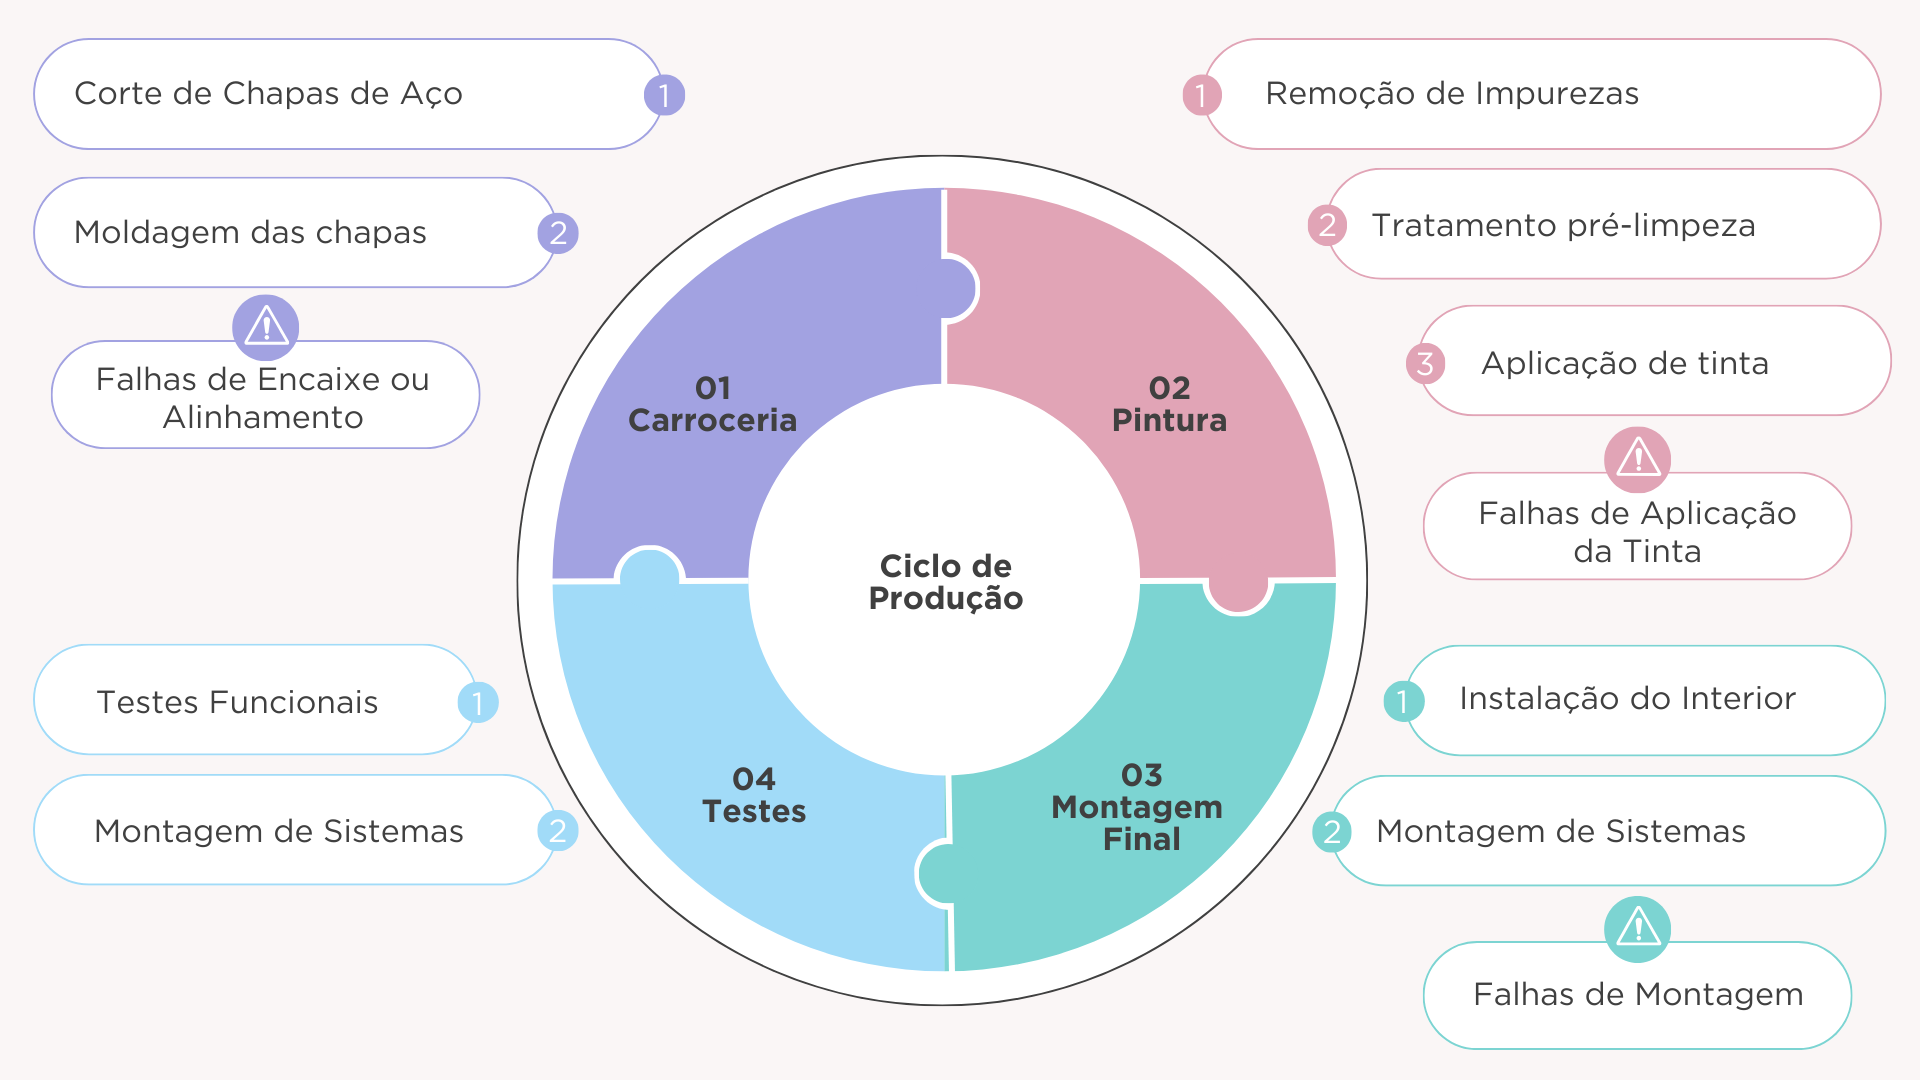
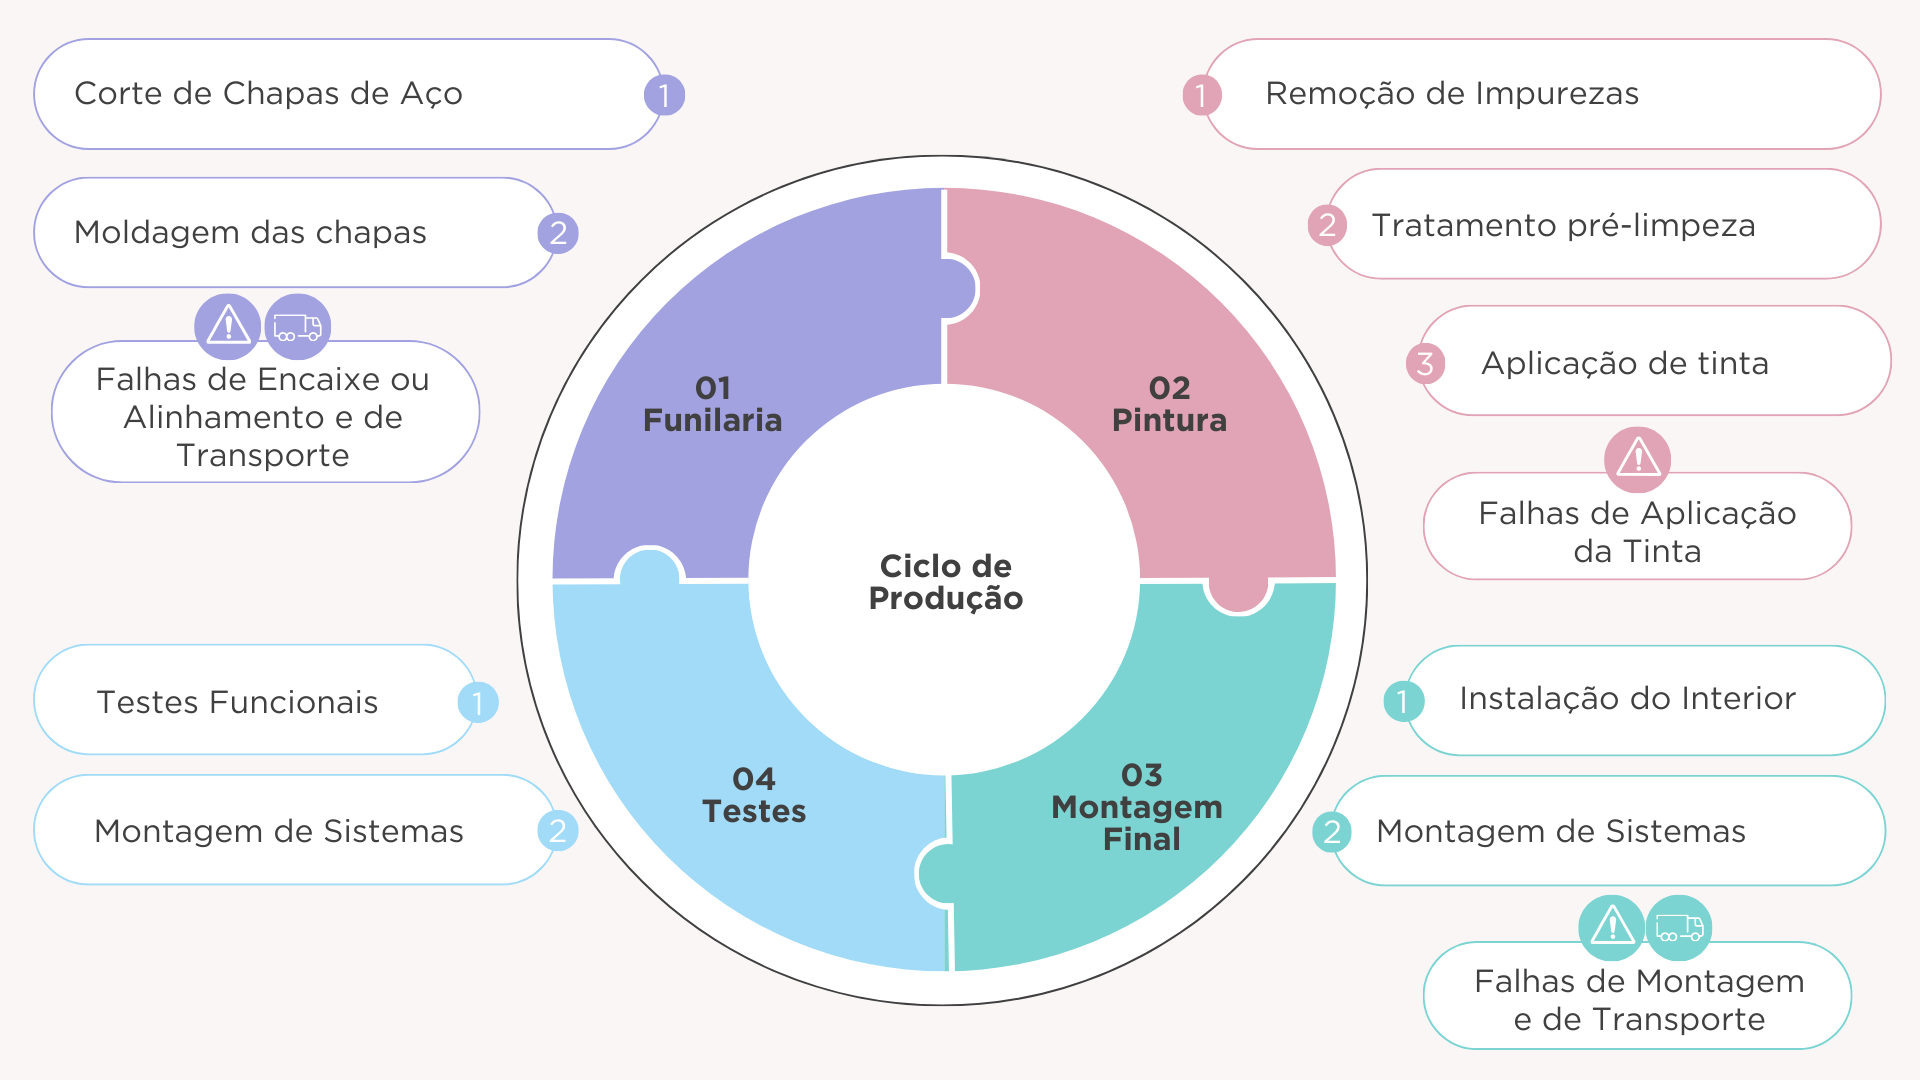
doc: ajustes de infografico e visualização

diff --git a/documentacao/docs/Sprint 1/Economia Circular e Mapeamento do Ciclo de Produção e Consumo/requisitos.md b/documentacao/docs/Sprint 1/Economia Circular e Mapeamento do Ciclo de Produção e Consumo/requisitos.md
@@ -9,7 +9,17 @@ Os requisitos descritos a seguir têm como objetivo definir como os dados devem 
 
 2. **Sistema de Pesquisa**: Para facilitar e agilizar a consulta dos dados desejados, é importante integrar à solução um sistema de pesquisa. Este sistema permitirá que o usuário busque pelo identificador do veículo, filtrando os resultados exibidos no dashboard e proporcionando uma busca mais eficiente.
 
-3. **Plataforma Web**: É necessária a construção de uma plataforma web que suporte toda a exibição e coleta de dados, incluindo o sistema de dashboard. A plataforma deve ser desenvolvida, preferencialmente, em um formato Desktop, subdividida em seções de Previsão e Treinamento. 
+3. **Sistema de Filtro**: Para facilitar a busca de informações na visualização, é recomendável incluir um sistema de filtros focado em:
+
+   - **Carros com previsão de falhas positivas**: Esse filtro é útil para os parceiros, permitindo maior agilidade nos testes durante a linha de produção.
+
+   - **Tipo de teste**: Na linha de produção, filtrar pelo tipo de teste a ser realizado ajuda a equipe responsável a priorizar e analisar os testes de forma mais eficiente.
+
+   - **Tipo de falha**: Esse filtro é valioso para a análise posterior do processo, pois permite a extração de informações relevantes e a realização de análises sobre os tipos de falha mais frequentes na linha de produção.
+
+
+
+4. **Plataforma Web**: É necessária a construção de uma plataforma web que suporte toda a exibição e coleta de dados, incluindo o sistema de dashboard. A plataforma deve ser desenvolvida, preferencialmente, em um formato Desktop, subdividida em seções de Previsão e Treinamento. 
 
    - **Seção de Previsão Diária**: A plataforma deve permitir a entrada de dados em formato .xlsx e, a partir disso, exibir o dashboard com as funcionalidades de pesquisa e paginação.
 

diff --git a/documentacao/docs/Sprint 1/Economia Circular e Mapeamento do Ciclo de Produção e Consumo/infografico.md b/documentacao/docs/Sprint 1/Economia Circular e Mapeamento do Ciclo de Produção e Consumo/infografico.md
@@ -41,6 +41,8 @@ Pela sensibilidade e abundante de peças que devem ser encaixadas, a montagem fi
 Nessa etapa, são realizados diversos testes para ser possível identificar possíveis ruídos, problemas na direção, freios, alinhamento das rodas, sistema de suspensão, entre outros equipamentos. Um dos principais testes é o de rodagem, o qual utiliza de diversos pisos, como asfalto, paralelepípedos e lombadas, trazendo situações de stress e verificando como o carro se porta diante.  
 
 
-# Referências 
-https://motor1.uol.com.br/news/424089/oficina-tonimek-alinhamento-de-pecas/
-https://quatrorodas.abril.com.br/noticias/como-funciona-uma-linha-de-montagem-de-automoveis#:~:text=Na%20montagem%20final%2C%20s%C3%A3o%20inseridos,o%20motor%20e%20o%20escapamento.
+# Referências
+
+1. Motor1. (2020). *Oficina Tonimek: Alinhamento de Peças*. Disponível em https://motor1.uol.com.br/news/424089/oficina-tonimek-alinhamento-de-pecas/
+
+2. Quatro Rodas. (n.d.). *Como funciona uma linha de montagem de automóveis*. Disponível em https://quatrorodas.abril.com.br/noticias/como-funciona-uma-linha-de-montagem-de-automoveis

diff --git a/documentacao/docs/Sprint 1/Economia Circular e Mapeamento do Ciclo de Produção e Consumo/processos_materia_prima.md b/documentacao/docs/Sprint 1/Economia Circular e Mapeamento do Ciclo de Produção e Consumo/processos_materia_prima.md
@@ -57,8 +57,6 @@ A indústria automobilística, apesar de seus benefícios em termos de mobilidad
 
 ## Referências
 
-Aqui estão as referências formatadas no padrão APA:
-
 1. Pensenova. (n.d.). *Processo de pintura automotiva*. Pensenova. Disponível em https://www.pensenova.com/processo-de-pintura-automotiva/
 
 2. Arpi Aspersul. (n.d.). *Como preparar o carro para pintura*. Grupo Arpi Aspersul. Disponível em https://grupoarpiaspersul.com.br/como-preparar-o-carro-para-pintura/
